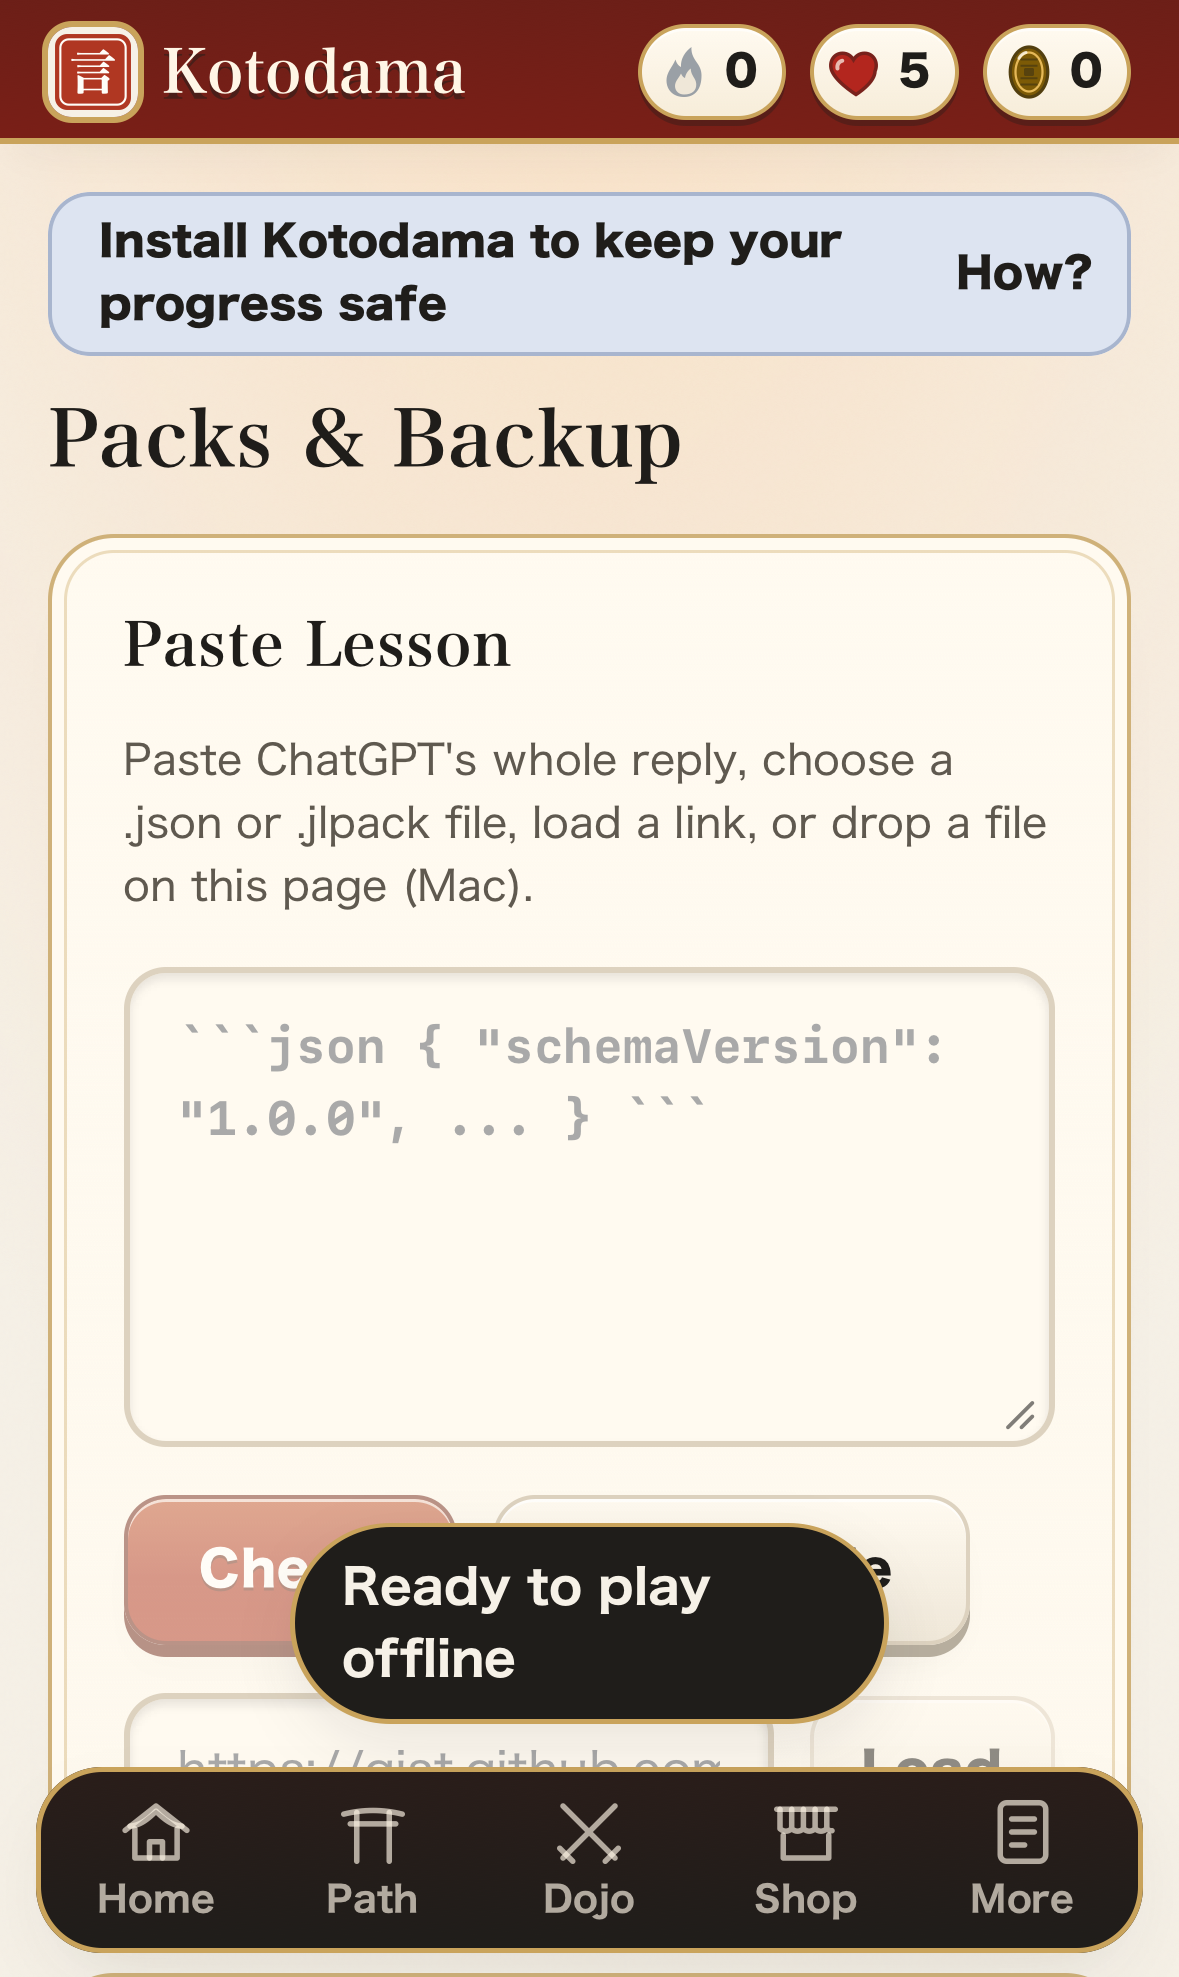
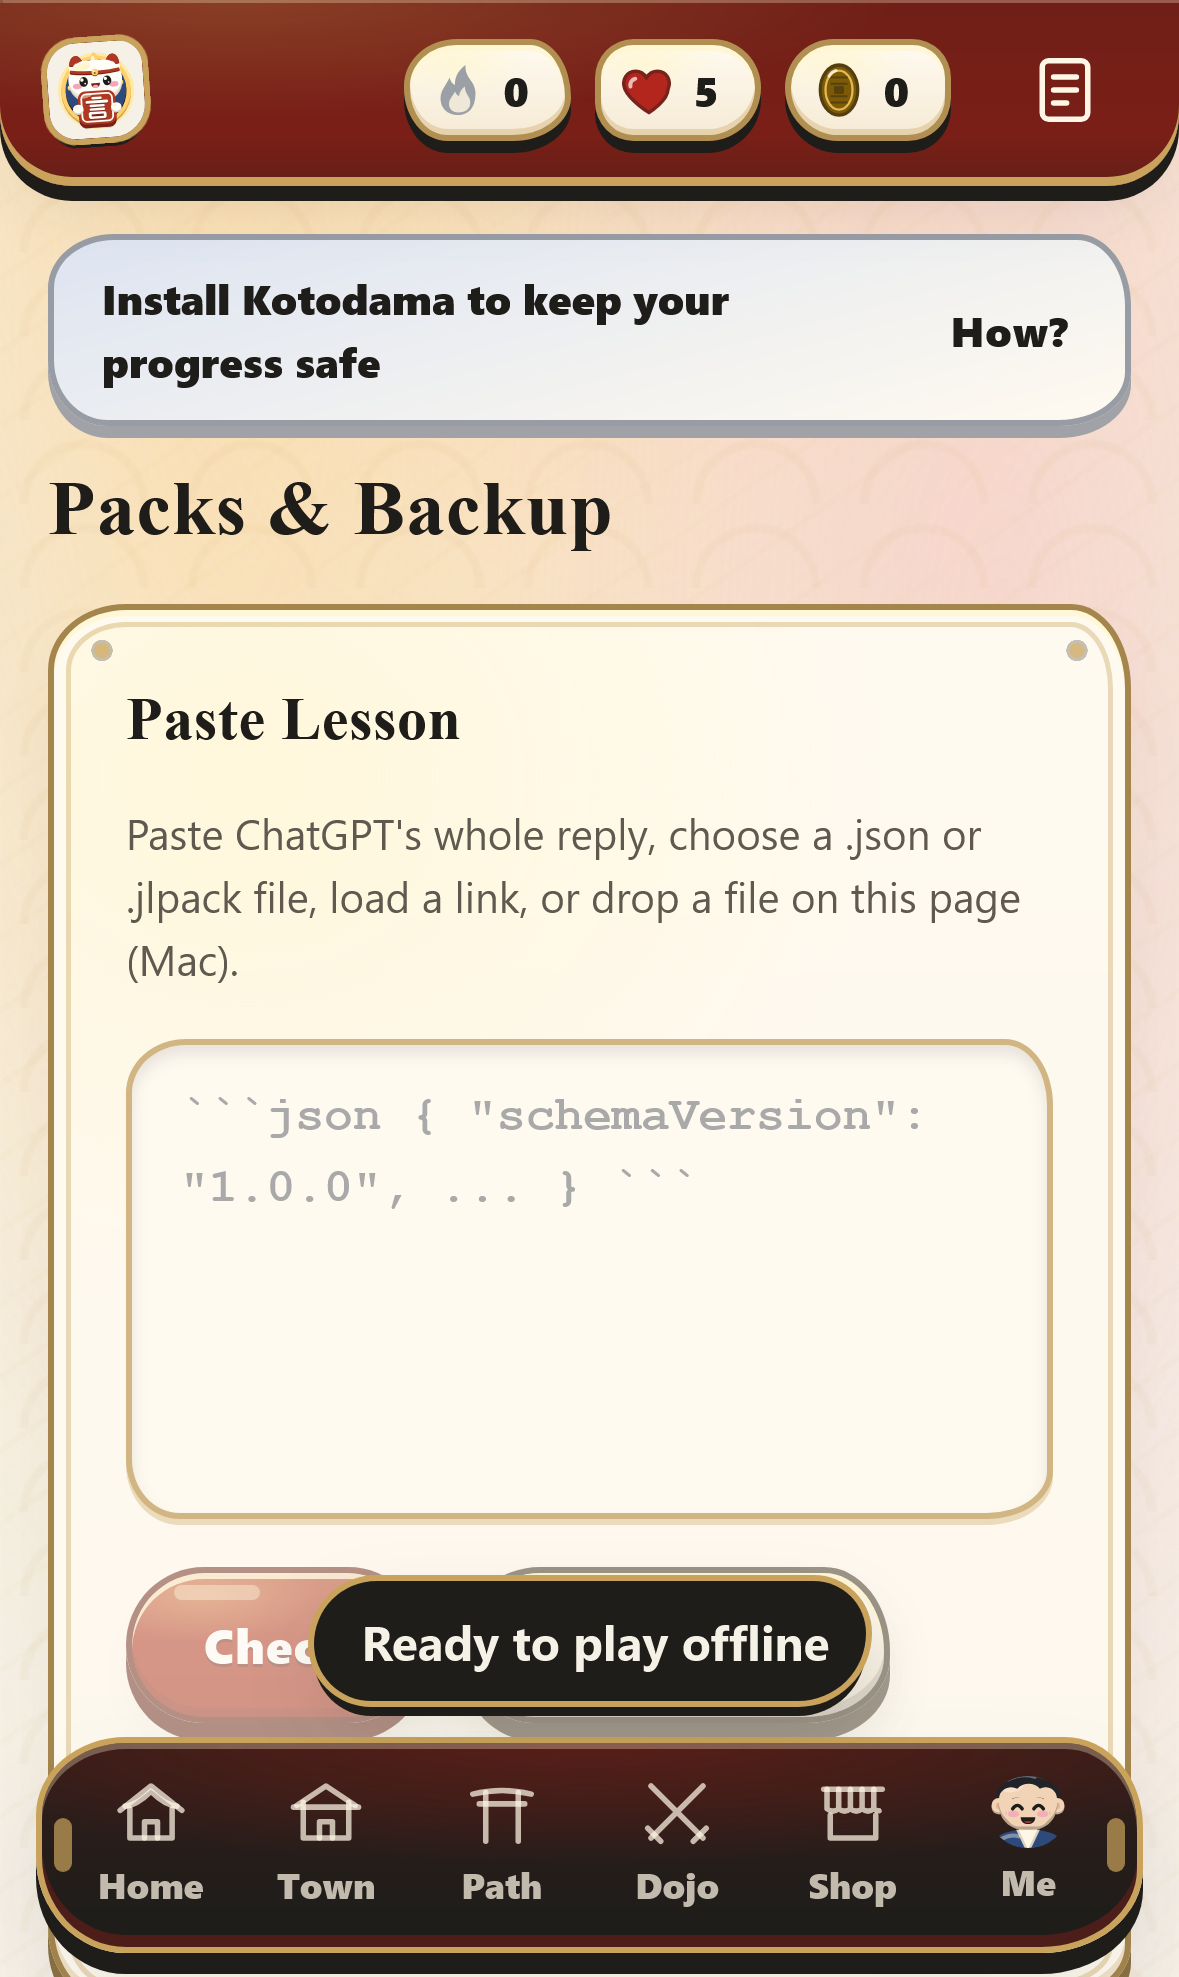
fix(e2e,a11y): accessible brand name on phones, pill contrast, e2e learner skips listening

diff --git a/e2e/helpers.ts b/e2e/helpers.ts
@@ -23,8 +23,13 @@ async function visibleText(page: Page, selector: string): Promise<string> {
 export async function answerKanaQuestion(page: Page): Promise<boolean> {
   const card = page.locator('.question');
   if (!(await card.isVisible().catch(() => false))) return false;
-  const showText = page.getByRole('button', { name: "Can't listen now? Show text" });
-  if (await showText.isVisible().catch(() => false)) await showText.click();
+  // Listening questions can't be read off the page any more (that gave the answer away), so
+  // the e2e learner takes the ungraded "can't listen now" skip, like a player on a train.
+  const skip = page.getByRole('button', { name: "Can't listen now? Skip" });
+  if (await skip.isVisible().catch(() => false)) {
+    await skip.click();
+    return true;
+  }
   const instruction = await visibleText(page, '.question .eyebrow');
 
   if (instruction === 'Match the pairs') {

diff --git a/src/app/global.css b/src/app/global.css
@@ -619,7 +619,8 @@ ruby rt {
 }
 .pill-accent {
   background: var(--c-accent-soft);
-  color: var(--c-accent);
+  /* darkened toward ink so small bold text keeps WCAG AA contrast on the soft tint */
+  color: color-mix(in srgb, var(--c-accent) 72%, var(--c-ink));
   border-color: color-mix(in srgb, var(--c-accent) 45%, transparent);
   box-shadow:
     inset 0 1px 0 color-mix(in srgb, var(--c-coin-shine) 60%, transparent),
@@ -1052,7 +1053,13 @@ label.field {
 
 /* Narrow phones: the seal alone carries the brand so the stats and More always fit. */
 @media (max-width: 430px) {
+  /* visually hidden but still the link's accessible name */
   .brand span {
-    display: none;
+    position: absolute;
+    width: 1px;
+    height: 1px;
+    overflow: hidden;
+    clip-path: inset(50%);
+    white-space: nowrap;
   }
 }
